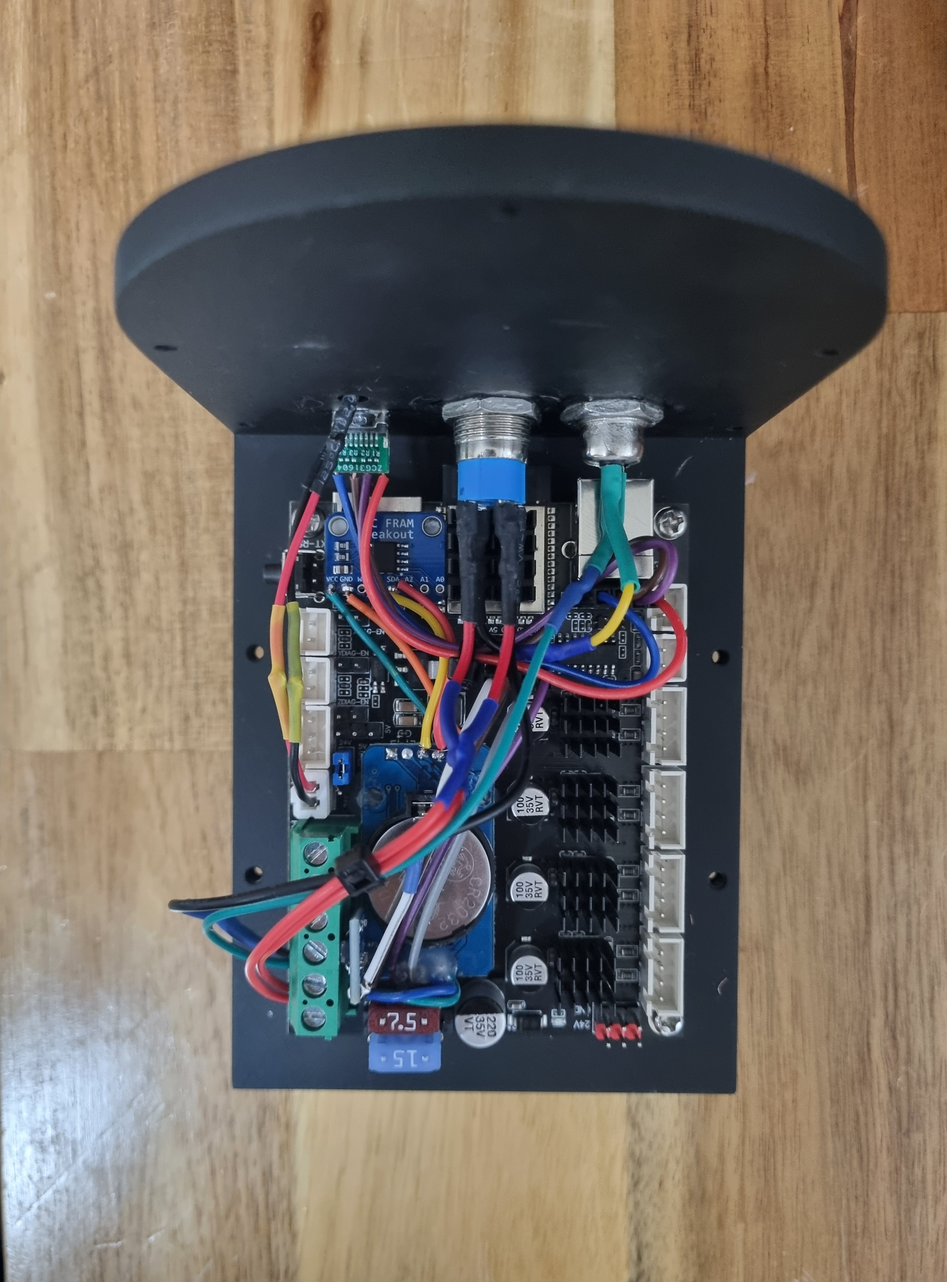
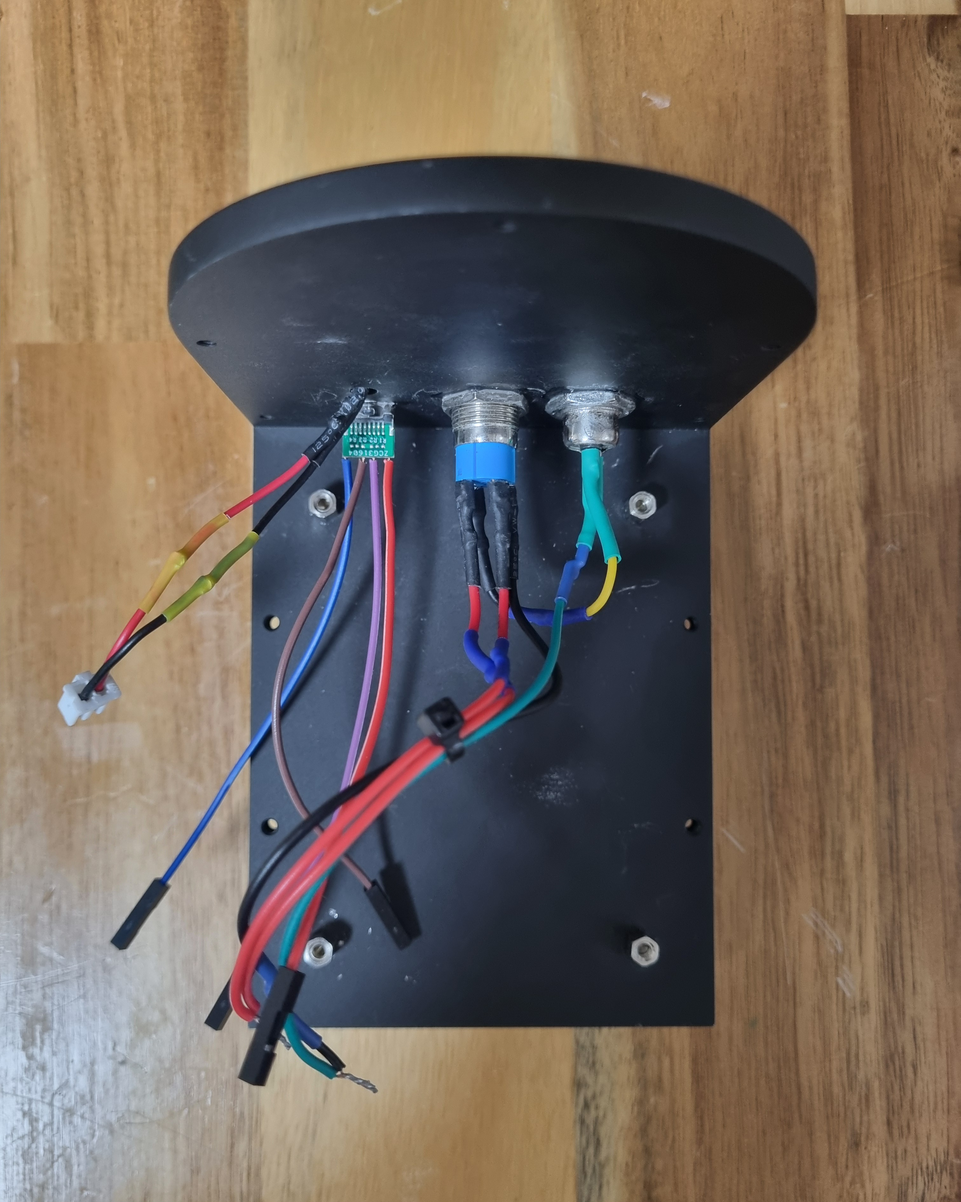
Set PEC to 0 and modify README.md

diff --git a/SW/OnStepX/Config.h b/SW/OnStepX/Config.h
@@ -190,7 +190,7 @@
 #define PARK_STRICT                   OFF //    OFF, ON Un-parking is only allowed if successfully parked.                    Option
 
 // PEC ------------------------------------------------------------ see https://onstep.groups.io/g/main/wiki/Configuration_Mount#PEC
-#define PEC_STEPS_PER_WORM_ROTATION 12800 //      0, n. Steps per worm rotation (0 disables else 720 sec buffer allocated.)  <-Req'd
+#define PEC_STEPS_PER_WORM_ROTATION     0 //      0, n. Steps per worm rotation (0 disables else 720 sec buffer allocated.)  <-Req'd
                                           //         n = (AXIS1_STEPS_PER_DEGREE*360)/reduction_final_stage
 
 #define PEC_SENSE                     OFF //    OFF, HIGH. Senses the PEC signal rising edge or use LOW for falling edge.     Option

diff --git a/README.md b/README.md
@@ -6,6 +6,8 @@
 
 ![build_process3](./Renderings/build_process3.jpg)
 
+![build_process4](./Renderings/build_process4.jpg)
+
 An **equatorial mount** is a telescope mount designed to compensate for the Earth's rotation and track celestial objects as they move across the sky. It consists of two axes known as the **right ascension (RA)** and **declination (DEC)**.
 
 The RA axis is aligned parallel to the Earth's rotational axis, allowing the mount to rotate at the same rate as the sky appears to move. By continuously rotating around the RA axis, the mount can effectively cancel out the Earth's rotation and keep a celestial object centered in the telescope's field of view.
@@ -43,6 +45,7 @@ Although the third and fourth options are attractive for their low maintenance (
 | 40PCS 10cm female-to-male Dupont jumper wire | $0.94 | 1 |
 | 40PCS 10cm male-to-male Dupont jumper wire | $1.04 | 1 |
 | MB85RC256V I2C FRAM Memory Module | $2.96 | 1 |
+| DS3231 RTC Module | $2.34 | 1 |
 | 12mm push button with latching reset 9-30V(12V)** | $3.15 | 1 |
 | 17HS4401 NEMA17 Stepper Motor | $4.66 | 2 |
 | FLE42-L2SW (20:1) | $18.46 | 2 |
@@ -70,7 +73,7 @@ Although the third and fourth options are attractive for their low maintenance (
 
 | | Total |
 |---|---|
-| **Total BOM Cost (USD)** | $946.14 |
+| **Total BOM Cost (USD)** | $948.48 |
 
 *Calculated based on the current (Sep 7th 2026) exchange rate of 1 KRW = $0.00074.  
 **Emits red light.
@@ -115,6 +118,10 @@ I made several changes to the default [OnStepX-E4](https://github.com/hjd1964/On
 #define TIME_LOCATION_SOURCE       DS3231
 ```
 
+```cpp
+// Not a worm-gear mount, fast guiding compensates for PE
+#define PEC_STEPS_PER_WORM_ROTATION        0
+```
 ```cpp
 #define TRACK_AUTOSTART      ON
 ```
